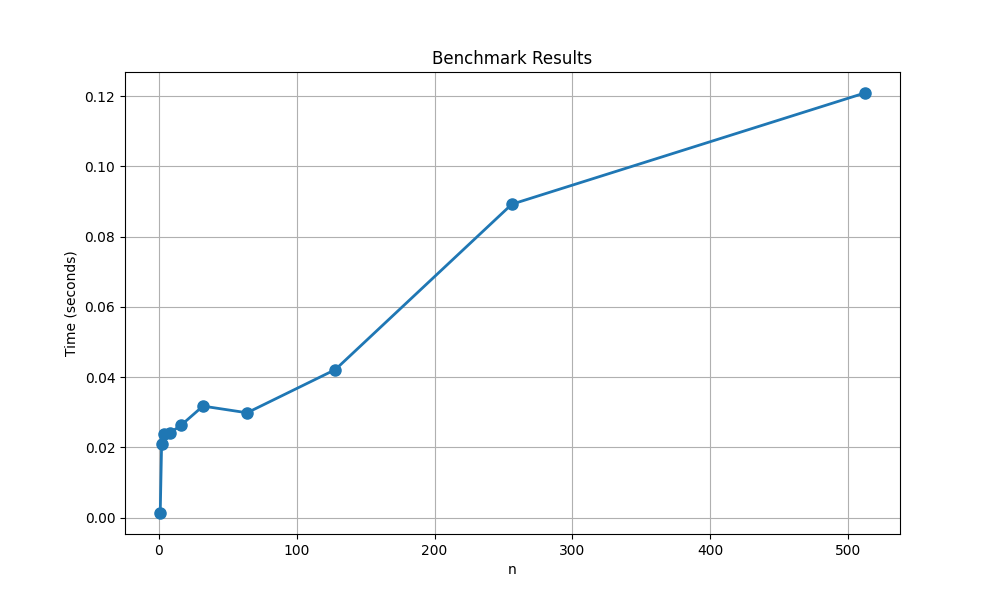
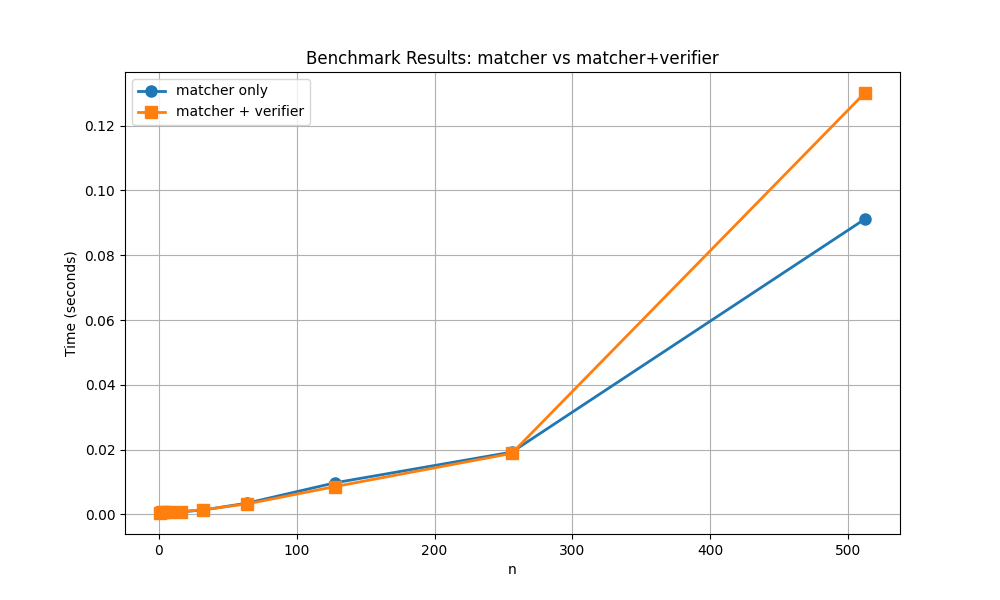
added verified benchmarking results to graph.

diff --git a/src/benchmarking_matcher.py b/src/benchmarking_matcher.py
@@ -2,31 +2,46 @@ import matplotlib.pyplot as plt
 import time
 from io_utils import read_preferences
 from matcher import gale_shapley
+from verifier import check_validity, check_stability
 
 def time_matcher(n_values):
-    times = [None]*10
-    for n,i in zip(n_values, range(10)):
+    count = len(n_values)
+    times_matcher = [None] * count
+    times_with_verifier = [None] * count
+
+    for i, n in enumerate(n_values):
         input_file = f"data/taskC/n{n}.in"
-        
+
+        # Time matcher only (read + match)
         start = time.perf_counter()
         n_read, hospital_prefs, student_prefs = read_preferences(input_file)
         h_match = gale_shapley(n_read, hospital_prefs, student_prefs)
         end = time.perf_counter()
-        
-        elapsed = end - start
-        times[i] = elapsed 
-    return times
+        times_matcher[i] = end - start
 
-def plot_matcher_benchmark_results(n_values, times):
+        # Time matcher + verifier (read + match + checks)
+        start = time.perf_counter()
+        n_read, hospital_prefs, student_prefs = read_preferences(input_file)
+        h_match = gale_shapley(n_read, hospital_prefs, student_prefs)
+        is_valid = check_validity(matching=h_match, n=n_read)
+        is_stable = check_stability(h_match, hospital_prefs, student_prefs)
+        end = time.perf_counter()
+        times_with_verifier[i] = end - start
+
+    return times_matcher, times_with_verifier
+
+def plot_matcher_benchmark_results(n_values, times_matcher, times_with_verifier):
     plt.figure(figsize=(10, 6))
-    plt.plot(n_values, times, marker='o', linewidth=2, markersize=8)
+    plt.plot(n_values, times_matcher, marker='o', linewidth=2, markersize=8, label='matcher only')
+    plt.plot(n_values, times_with_verifier, marker='s', linewidth=2, markersize=8, label='matcher + verifier')
     plt.xlabel("n")
     plt.ylabel("Time (seconds)")
-    plt.title("Benchmark Results")
+    plt.title("Benchmark Results: matcher vs matcher+verifier")
     plt.grid(True)
+    plt.legend()
     plt.savefig("docs/matcher_times.png")
     plt.close()
 
 n_values = [1, 2, 4, 8, 16, 32, 64, 128, 256, 512]
-times = time_matcher(n_values)
-plot_matcher_benchmark_results(n_values, times)
+times_matcher, times_with_verifier = time_matcher(n_values)
+plot_matcher_benchmark_results(n_values, times_matcher, times_with_verifier)
